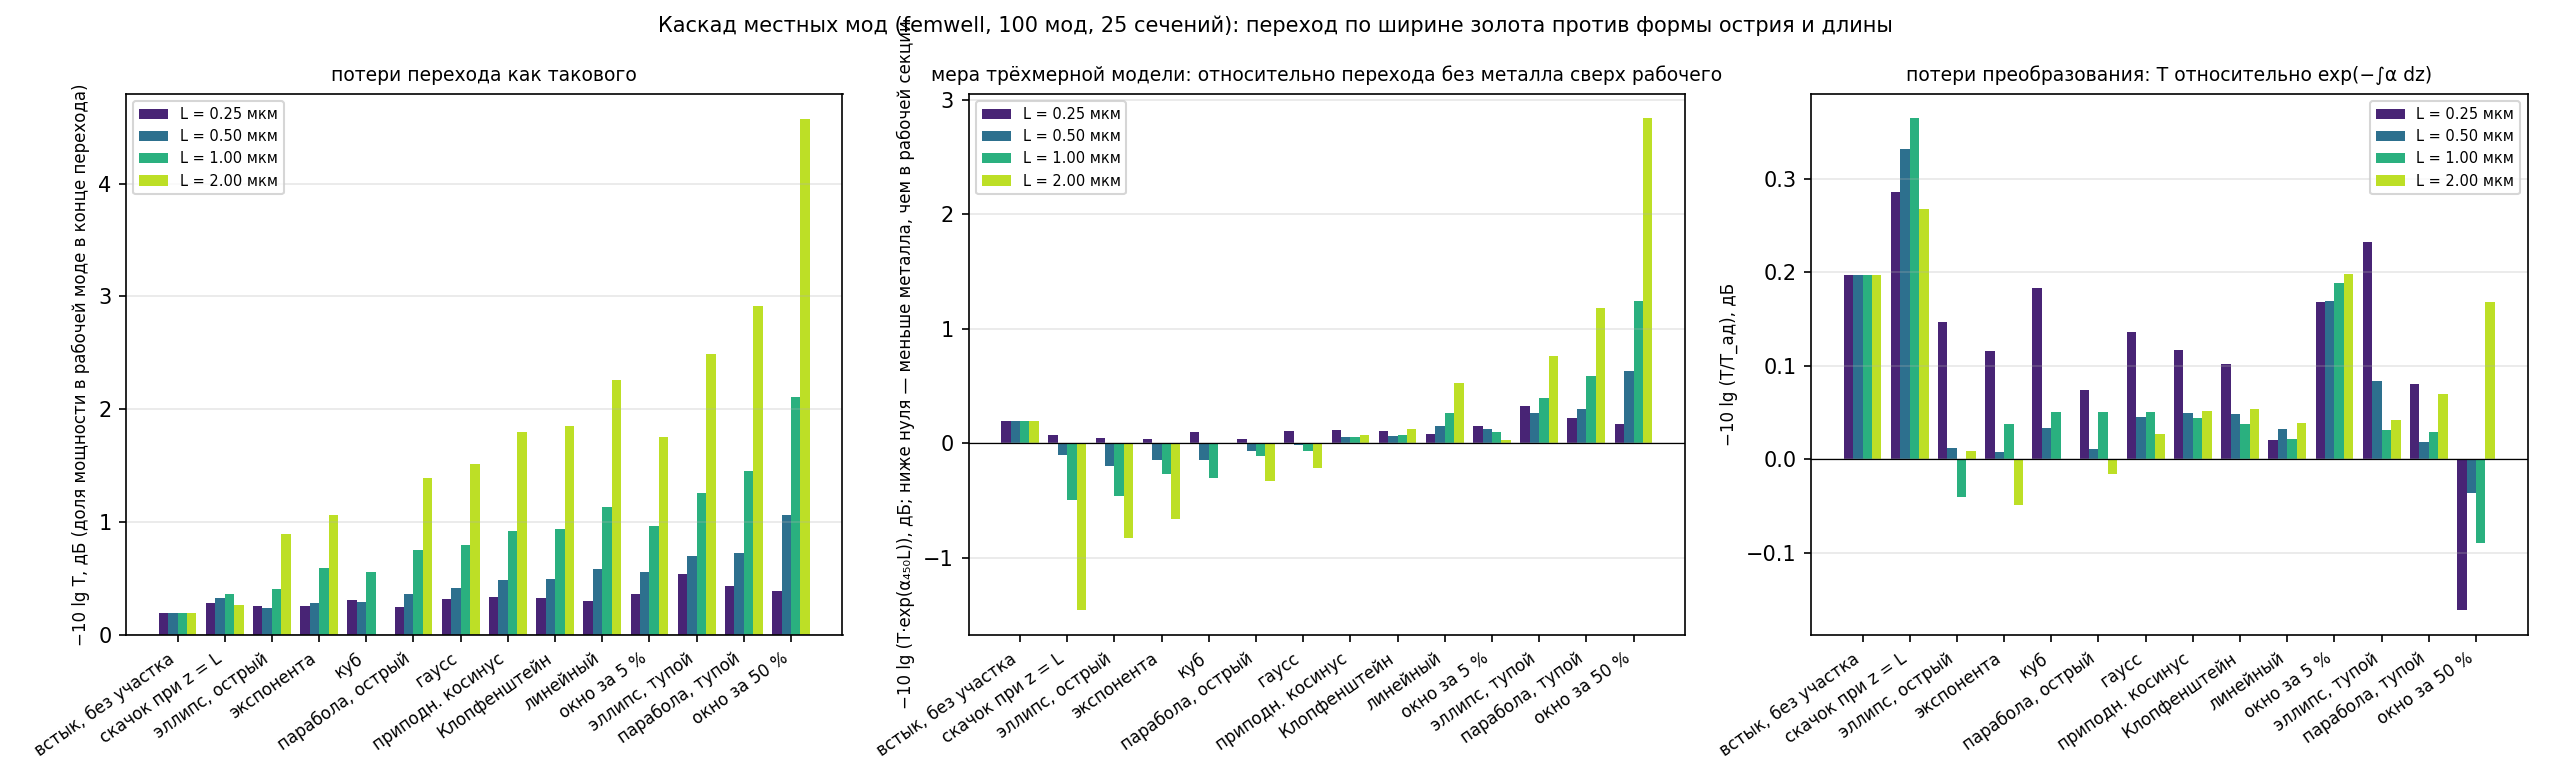
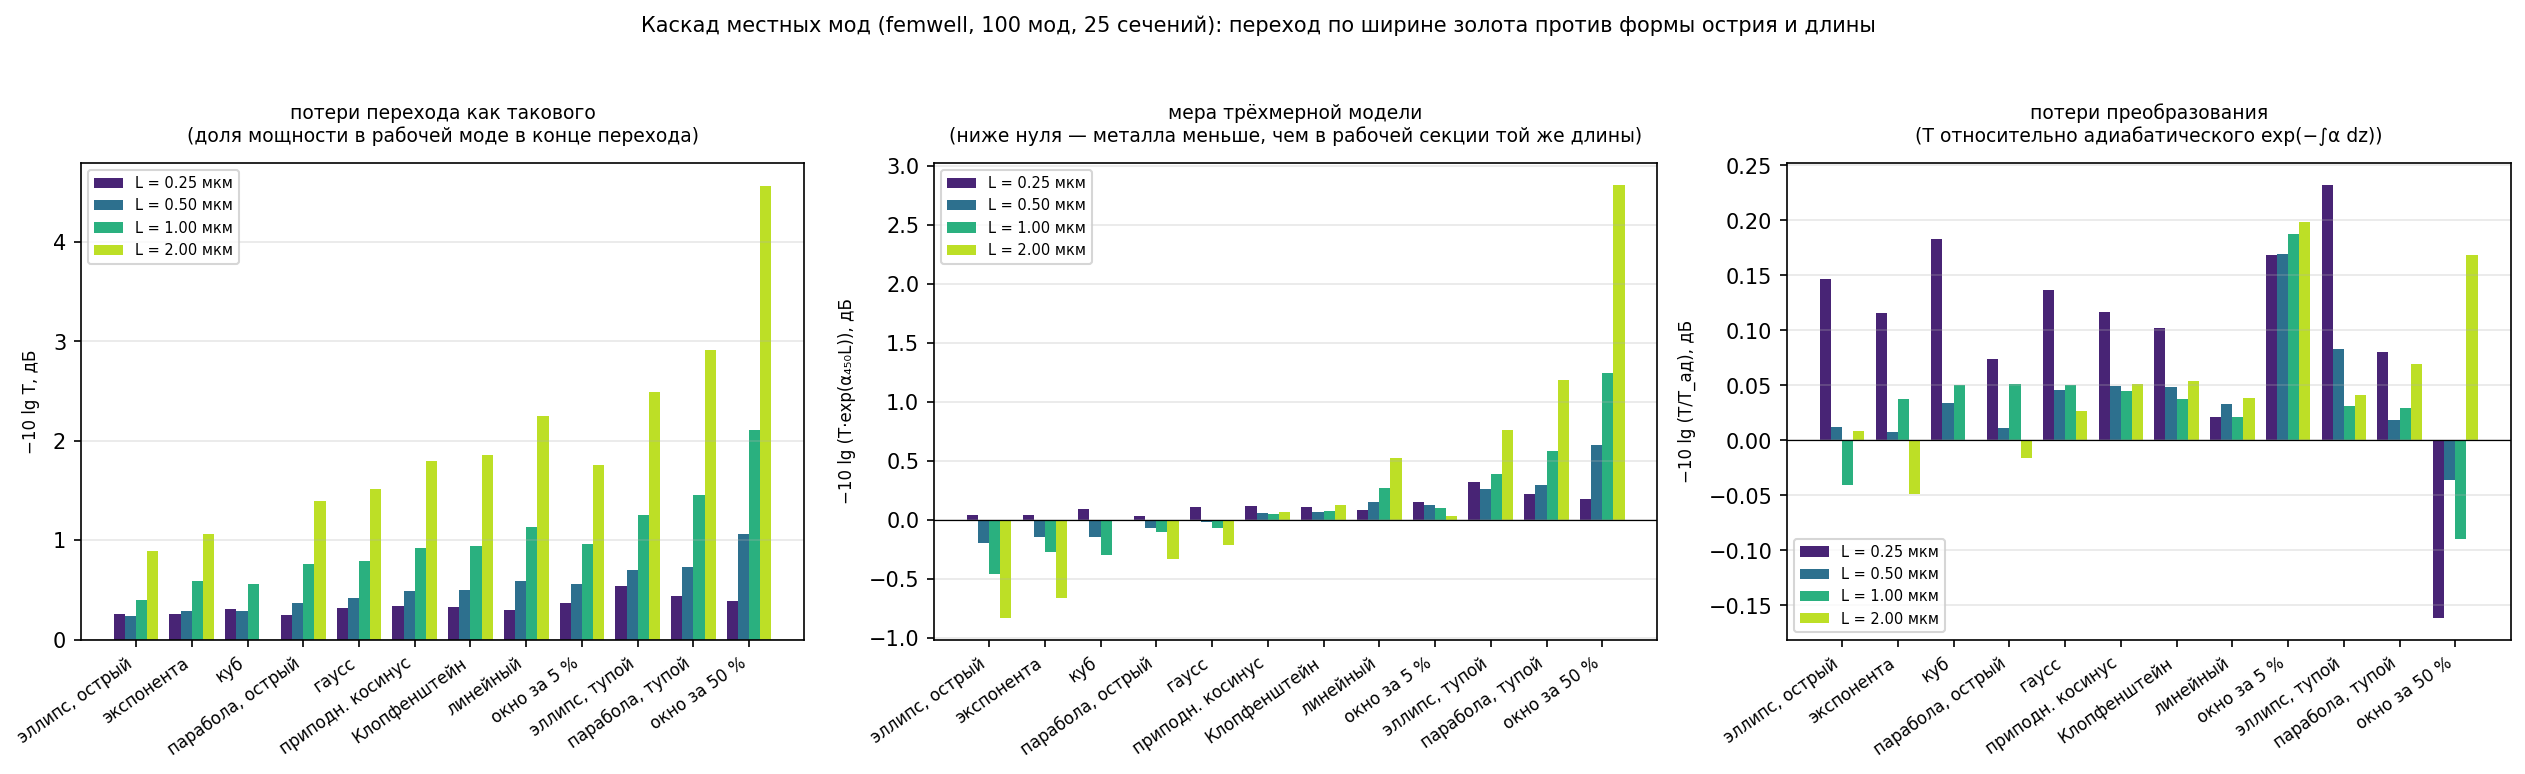
junction_mode_matching: подпись оси на рисунке форм острия больше не налезает на заголовок

diff --git a/junction_mode_matching/scripts/plot_taper_eme.py b/junction_mode_matching/scripts/plot_taper_eme.py
@@ -42,19 +42,19 @@ def main():
         axes[0].bar(x + (k - (len(Ls) - 1) / 2) * w, loss, w, color=colors[k], label="L = %.2f мкм" % L)
         axes[1].bar(x + (k - (len(Ls) - 1) / 2) * w, loss_eq, w, color=colors[k], label="L = %.2f мкм" % L)
         axes[2].bar(x + (k - (len(Ls) - 1) / 2) * w, conv, w, color=colors[k], label="L = %.2f мкм" % L)
-    for ax, title, ylab in ((axes[0], "потери перехода как такового", "−10 lg T, дБ (доля мощности в рабочей моде в конце перехода)"),
-                            (axes[1], "мера трёхмерной модели: относительно перехода без металла сверх рабочего", "−10 lg (T·exp(α₄₅₀L)), дБ; ниже нуля — меньше металла, чем в рабочей секции"),
-                            (axes[2], "потери преобразования: T относительно exp(−∫α dz)", "−10 lg (T/T_ад), дБ")):
+    for ax, title, ylab in ((axes[0], "потери перехода как такового\n(доля мощности в рабочей моде в конце перехода)", "−10 lg T, дБ"),
+                            (axes[1], "мера трёхмерной модели\n(ниже нуля — металла меньше, чем в рабочей секции той же длины)", "−10 lg (T·exp(α₄₅₀L)), дБ"),
+                            (axes[2], "потери преобразования\n(T относительно адиабатического exp(−∫α dz))", "−10 lg (T/T_ад), дБ")):
         ax.set_xticks(x)
         ax.set_xticklabels([RU[s] for s in shapes], rotation=35, ha="right", fontsize=8)
-        ax.set_title(title, fontsize=9)
-        ax.set_ylabel(ylab, fontsize=8)
+        ax.set_title(title, fontsize=9, pad=10)
+        ax.set_ylabel(ylab, fontsize=8, labelpad=6)
         ax.grid(alpha=0.3, axis="y")
         ax.axhline(0, color="k", lw=0.6)
         ax.legend(fontsize=7)
     fig.suptitle("Каскад местных мод (femwell, 100 мод, 25 сечений): переход по ширине золота против формы острия и длины", fontsize=10)
-    fig.tight_layout()
-    fig.savefig(os.path.join(dst, "taper_eme_shapes.png"), dpi=150)
+    fig.tight_layout(rect=(0, 0, 1, 0.95))
+    fig.savefig(os.path.join(dst, "taper_eme_shapes.png"), dpi=150, bbox_inches="tight")
 
     # ветвь alpha(w)
     br = list(csv.DictReader(io.open(branch_path, encoding="utf-8")))
